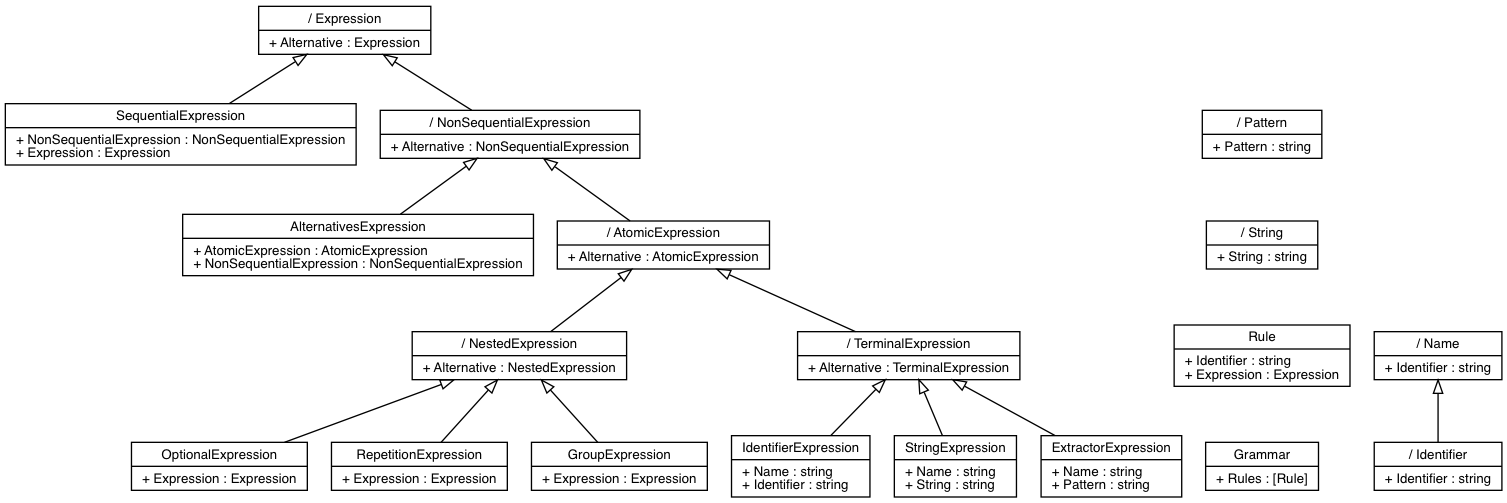
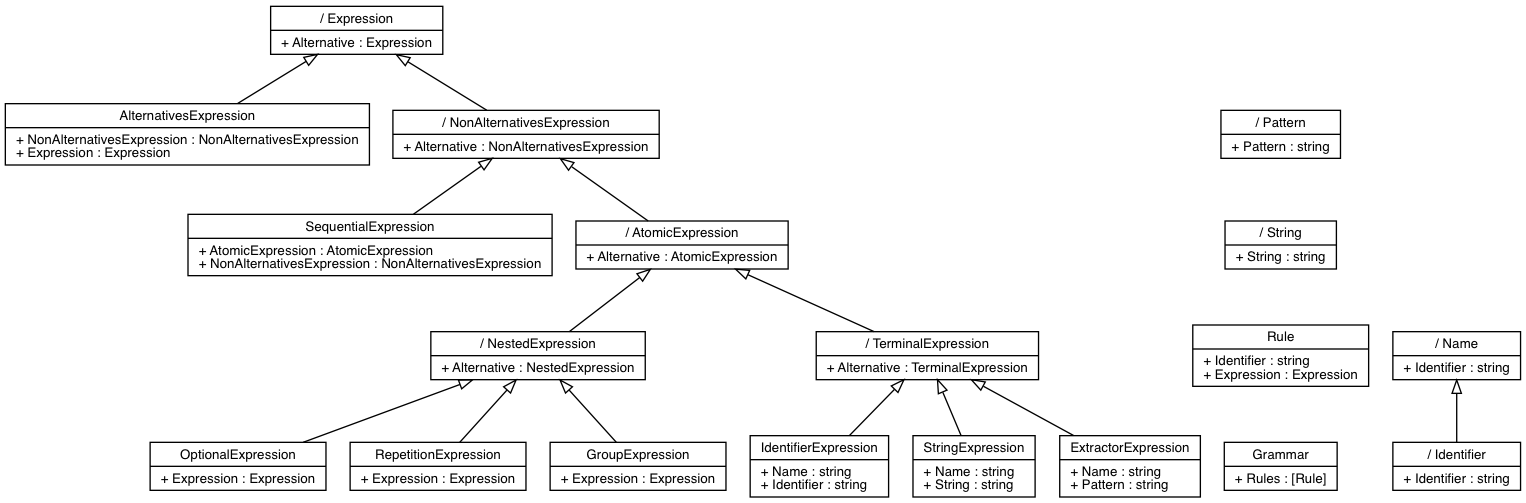
updated README with new grammar/picture/CI

diff --git a/README.md b/README.md
@@ -432,51 +432,52 @@ An important aspect of this project is being self hosting and parsing the EBNF-l
 The grammar for the Human Parser Generator BNF-like notation (currently) looks like this:
 
 ```ebnf
-grammar                   ::= { rule } ;
+grammar                     ::= { rule } ;
 
-rule                      ::= identifier "::=" expression ";" ;
+rule                        ::= identifier ( _ @ "::=" | _ @ "=" ) expression ";" ;
 
-expression                ::= sequential-expression
-                            | non-sequential-expression
-                            ;
+expression                  ::= alternatives-expression
+                              | non-alternatives-expression
+                              ;
 
-sequential-expression     ::= non-sequential-expression expression ;
+alternatives-expression     ::= non-alternatives-expression "|" expression ;
 
-non-sequential-expression ::= alternatives-expression
-                            | atomic-expression
-                            ;
+non-alternatives-expression ::= sequential-expression
+                              | atomic-expression
+                              ; 
 
-alternatives-expression   ::= atomic-expression "|" non-sequential-expression ;
+sequential-expression       ::= atomic-expression [ _ @ "," ] non-alternatives-expression ;
 
 
-atomic-expression         ::= nested-expression
-                            | terminal-expression
-                            ;
+atomic-expression           ::= nested-expression
+                              | terminal-expression
+                              ;
 
-nested-expression         ::= optional-expression
-                            | repetition-expression
-                            | group-expression
-                            ;
+nested-expression           ::= optional-expression
+                              | repetition-expression
+                              | group-expression
+                              ;
 
-optional-expression       ::= "[" expression "]" ;
-repetition-expression     ::= "{" expression "}" ;
-group-expression          ::= "(" expression ")" ;
+optional-expression         ::= "[" expression "]" ;
+repetition-expression       ::= "{" expression "}" ;
+group-expression            ::= "(" expression ")" ;
 
-terminal-expression       ::= identifier-expression
-                            | string-expression
-                            | extractor-expression
-                            ;
+terminal-expression         ::= identifier-expression
+                              | string-expression
+                              | extractor-expression
+                              ;
 
-identifier-expression     ::= [ name ] identifier ;
-string-expression         ::= [ name ] string;
+identifier-expression       ::= [ name ] identifier ;
 
-extractor-expression      ::= [ name ] "/" pattern "/" ;
+string-expression           ::= [ name ] string ;
 
-name                      ::= identifier "@" ;
+extractor-expression        ::= [ name ] "/" pattern "/" ;
 
-identifier                ::= /([A-Za-z_][A-Za-z0-9-_]*)/ ;
-string                    ::= /"([^"]*)"|^'([^']*)'/ ;
-pattern                   ::= /(.*?)(?<keep>/\s*;)/ ;
+name                        ::= identifier "@" ;
+
+identifier                  ::= /([A-Za-z_][A-Za-z0-9-_]*)/ ;
+string                      ::= /"([^"]*)"|^'([^']*)'/ ;
+pattern                     ::= /(.*?)(?<keep>/\s*;)/ ;
 ```
 
 To bootstrap the generator, to allow it to generate a parser for the EBNF-like definition language, a grammar modelled by hand is used. It is located in `generator/grammar.cs` in the `AsModel` class, retrievable via the `BNF` property.
@@ -531,10 +532,13 @@ This compiles a second generation parser generator, called `hpg.exe`:
 
 ```bash
 $ mono bin/Debug/hpg.exe --help
-Human Parser Generator version 1.1.6262.38847
+Human Parser Generator version 1.1.6264.18747
 Usage: hpg.exe [options] [file ...]
 
     --help, -h              Show usage information
+    --version, -v           Show version information
+
+    --output, -o FILENAME   Output to file, not stdout
 
 Output options.
 Select one of the following:
@@ -627,7 +631,9 @@ Build succeeded.
 Time Elapsed 00:00:02.8446630
 ```
 
-> The unit tests hardly cover the basics of the source tree, but the goal is to have a comprehensive set, covering all possibilities. The unit tests will be the driving force for the continued development :-)
+> The unit tests hardly cover the basics of the source tree, but the goal is to have a comprehensive set, covering all aspects.
+
+The repository is currently also tracked by [Circle CI](http://circleci.com). All unit tests and every example is built and the results can be seen on the [project's CI page](http://circleci.com/gh/christophevg/human-parser-generator) and via the _badge_ next to the top-most header in this README file.
 
 ### An inner-(parsing)-DSL
 
@@ -671,21 +677,18 @@ public Program ParseProgram() {
 ... was turned into ...
 
 ```csharp
+// program ::= "PROGRAM" identifier "BEGIN" { assignment } "END." ;
 public Program ParseProgram() {
-  Identifier identifier = null;
-  List<Assignment> assignments = new List<Assignment>();
+  Program program = new Program();
   this.Log( "ParseProgram" );
   Parse( () => {
     Consume("PROGRAM");
-    identifier = ParseIdentifier();
+    program.Identifier = ParseIdentifier();
     Consume("BEGIN");
-    assignments = Many<Assignment>(ParseAssignment);
+    program.Assignments = Many<Assignment>(ParseAssignment);
     Consume("END.");
-  }).OrThrow("Failed to parse Program.");
-  return new Program() {
-    Identifier = identifier,
-    Assignments = assignments
-  };
+  }).OrThrow("Failed to parse Program");
+  return program;
 }
 ```
 
